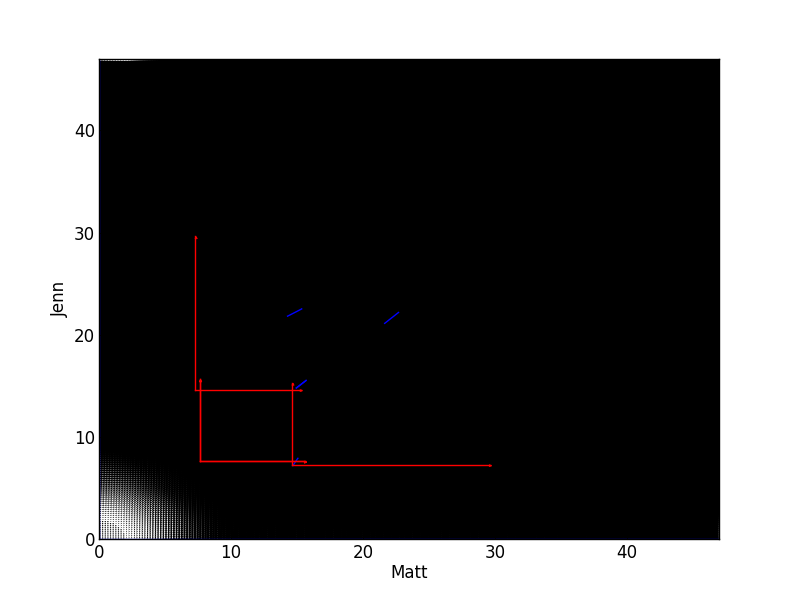
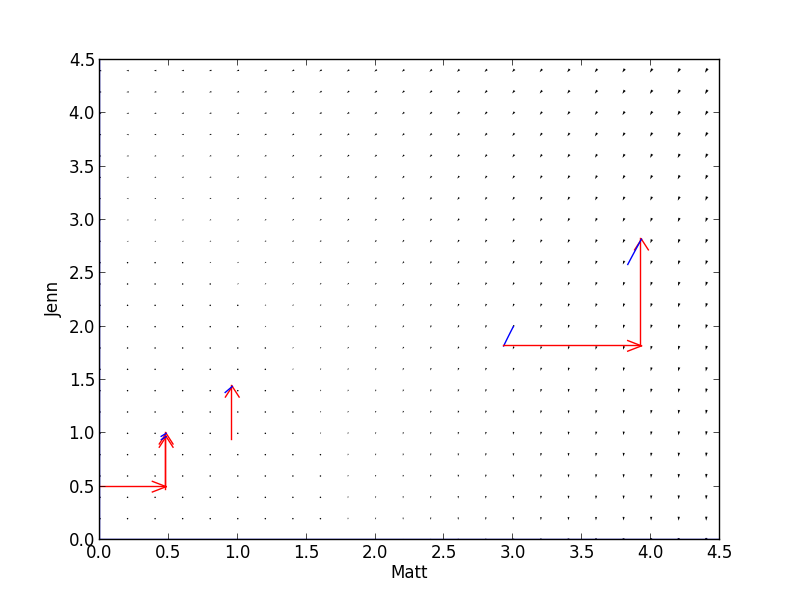
Added drawFinalVector, though it still has some bugs.

diff --git a/FinalProj/lanchestertk.py b/FinalProj/lanchestertk.py
@@ -5,7 +5,7 @@
 # load packages
 from Tkinter import *
 import slopefieldPlot as sp # my script for plotting slope fields
-import pngToGif # my script for converting png to gif
+import pngToGif as ptg # my script for converting png to gif
 import locale
 locale.setlocale(locale.LC_ALL, "")
 
@@ -41,7 +41,7 @@ class LanchesterSquares:
         self.periodLabel = Label(self.myContainer1, font=('Helvetica',14), text = 'Time Period', fg='black')
         self.periodLabel.grid(row=13, column=5, sticky=N+E+S+W)
 
-        self.troopsLabel = Label(self.myContainer1, font=('Helvetica',14), text = 'Troops (k)', fg='black')
+        self.troopsLabel = Label(self.myContainer1, font=('Helvetica',14), text = 'Troops (10k)', fg='black')
         self.troopsLabel.grid(row=13, column=6, sticky=N+E+S+W)
 
         self.investLabel = Label(self.myContainer1, font=('Helvetica',14), text = 'Investment ($m)', fg='black')
@@ -113,7 +113,7 @@ class LanchesterSquares:
             tempInvestment = "$" + locale.format('%0.2f', tempInvestment, True)
 
             # calculate grand total spending
-            grandTotal = self.totalTroops[self.currentPlayer] * 20000000 + self.investment[self.currentPlayer] * 1000000
+            grandTotal = self.totalTroops[self.currentPlayer] * 200000000 + self.investment[self.currentPlayer] * 1000000
             grandTotalStr = "$" + locale.format('%0.2f', grandTotal, True)
             
             # display player's total number of troops and investment
@@ -185,12 +185,14 @@ class LanchesterSquares:
             self.makeText('getStrategy')
 
     def pressSimulate(self):
+        outputName = 'simTester1'
+        #outputName = str(datetime.now())[0:10]
         if self.allowSimulate:
             # create slopefield plot
             sp.slopefieldPlotter(0, self.totalTroops[1], .2,
                                              0, self.totalTroops[2], .2, self.dx, self.dy,
                                              xLab=self.playerNames[1], yLab=self.playerNames[2],
-                mainLab='', drawAxes=True, filename='simTester1')
+                mainLab='', drawAxes=True, filename=outputName)
 
             # draw vectors and arrows
             x_temp, y_temp = 0, 0
@@ -199,33 +201,31 @@ class LanchesterSquares:
                 sp.drawVector(0, self.dx, self.dy, 0,
                                       x_temp+self.troopDeployments[1][p], y_temp+self.troopDeployments[2][p],
                                       100, 0.1) # num steps and stepsize
-                                                #sp.pngSave('simTester1')
 
                 # arrows
                 x_temp, y_temp = sp.getEndVector(0, self.dx, self.dy, 0,
                                       self.troopDeployments[1][p], self.troopDeployments[2][p],
                                       100, 0.1)
                 if p < 4:
-                    if self.troopDeployments[1][p+1] > 0: # or p
-                        sp.drawArrow(x_temp, x_temp+self.troopDeployments[1][p], y_temp, y_temp, headlength=0.05, direction='R', lineColor='r')
-                    if self.troopDeployments[2][p+1] > 0:
-                        sp.drawArrow(x_temp, x_temp, y_temp, y_temp+self.troopDeployments[2][p], headlength=0.05, direction='U', lineColor='r')
+                    if (self.troopDeployments[1][p+1] > 0) & (self.troopDeployments[2][p+1] <= 0): # or p
+                        sp.drawArrow(x_temp, x_temp+self.troopDeployments[1][p+1], y_temp, y_temp, headlength=0.05, direction='R', lineColor='r')
+                    if (self.troopDeployments[2][p+1] > 0) & (self.troopDeployments[1][p+1] <= 0):
+                        sp.drawArrow(x_temp, x_temp, y_temp, y_temp+self.troopDeployments[2][p+1], headlength=0.05, direction='U', lineColor='r')
+                    if (self.troopDeployments[1][p+1] > 0) & (self.troopDeployments[2][p+1] > 0):
+                        sp.drawArrow(x_temp, x_temp+self.troopDeployments[1][p+1], y_temp, y_temp, headlength=0.05, direction='R', lineColor='r')
+                        sp.drawArrow(x_temp+self.troopDeployments[1][p+1], x_temp+self.troopDeployments[1][p+1],
+                                     y_temp, y_temp+self.troopDeployments[2][p+1], headlength=0.05, direction='U', lineColor='r')
 
-            # draw vector for periods 11-20
-            #sp.drawVector(0, self.dx, self.dy, 0,
-            #                          x10+self.troopDeployments[1][2], y10+self.troopDeployments[2][2],
-            #                          100, 0.1)
-            sp.pngSave('simTester1')
-            
+            sp.drawFinalVector(0, self.dx, self.dy, 0, x_temp, y_temp)
                 # TODO: add filename parameter
-                # TODO: make arrows conditional
-                # TODO: maybe make this a for loop
-                # TODO: ***figure out maximum troops on battle at any given point
+                # TODO: rescale arrows
+                # TODO: rescale investment input
  
-            #convert to gif
-            pngToGif.pngToGif('simTester1')
+            #save file and convert to gif
+            sp.pngSave(outputName)
+            ptg.pngToGif(outputName)
             
-            simPhoto = PhotoImage(file='simTester1.gif')
+            simPhoto = PhotoImage(file=outputName+'.gif')
             self.photoLabel = Label(self.myContainer1, image=simPhoto)
             self.photoLabel.image = simPhoto
             self.photoLabel.grid(row=2, column=1, rowspan=20,columnspan=3, sticky=W)

diff --git a/FinalProj/slopefieldPlot.py b/FinalProj/slopefieldPlot.py
@@ -60,6 +60,26 @@ def drawVector(dXx, dXy, dYx, dYy, X0, Y0, numsteps, stepsize=0.01, colorVar='b'
 #TODO: make it easier to pass coefficient parameters
 # will need dX, dY w/r/t X,Y,dX,dY,t
 
+def drawFinalVector(dXx, dXy, dYx, dYy, X0, Y0, stepsize=.1, colorVar='b'): # currently implemented for implicit diffEq's
+    xCoords = [X0]
+    yCoords = [Y0]
+    x_tk = X0+((dXx*X0)+(dXy*X0))*stepsize
+    y_tk = Y0+((dYx*X0)+(dYy*Y0))*stepsize
+    xCoords.append(x_tk)
+    yCoords.append(y_tk)
+    x_tk_last = x_tk
+    y_tk_last = y_tk
+    # compute coordinates using Euler's method
+    while (x_tk > -0.01) & (y_tk > -0.01) & (x_tk_last > 0) & (y_tk_last > 0): 
+        x_tk_last = x_tk
+        y_tk_last = y_tk
+        x_tk = x_tk_last+((dXx*x_tk_last)+(dXy*y_tk_last))*stepsize
+        y_tk = y_tk_last+((dYx*x_tk_last)+(dYy*y_tk_last))*stepsize
+        xCoords.append(x_tk)
+        yCoords.append(y_tk)
+
+    pyplot.plot(xCoords, yCoords, color=colorVar)
+
 def getEndVector(dXx, dXy, dYx, dYy, X0, Y0, numsteps, stepsize=0.01): # find where vector ends
     # compute coordinates using Euler's method
     for i in range(1,numsteps): # maybe numsteps+1
